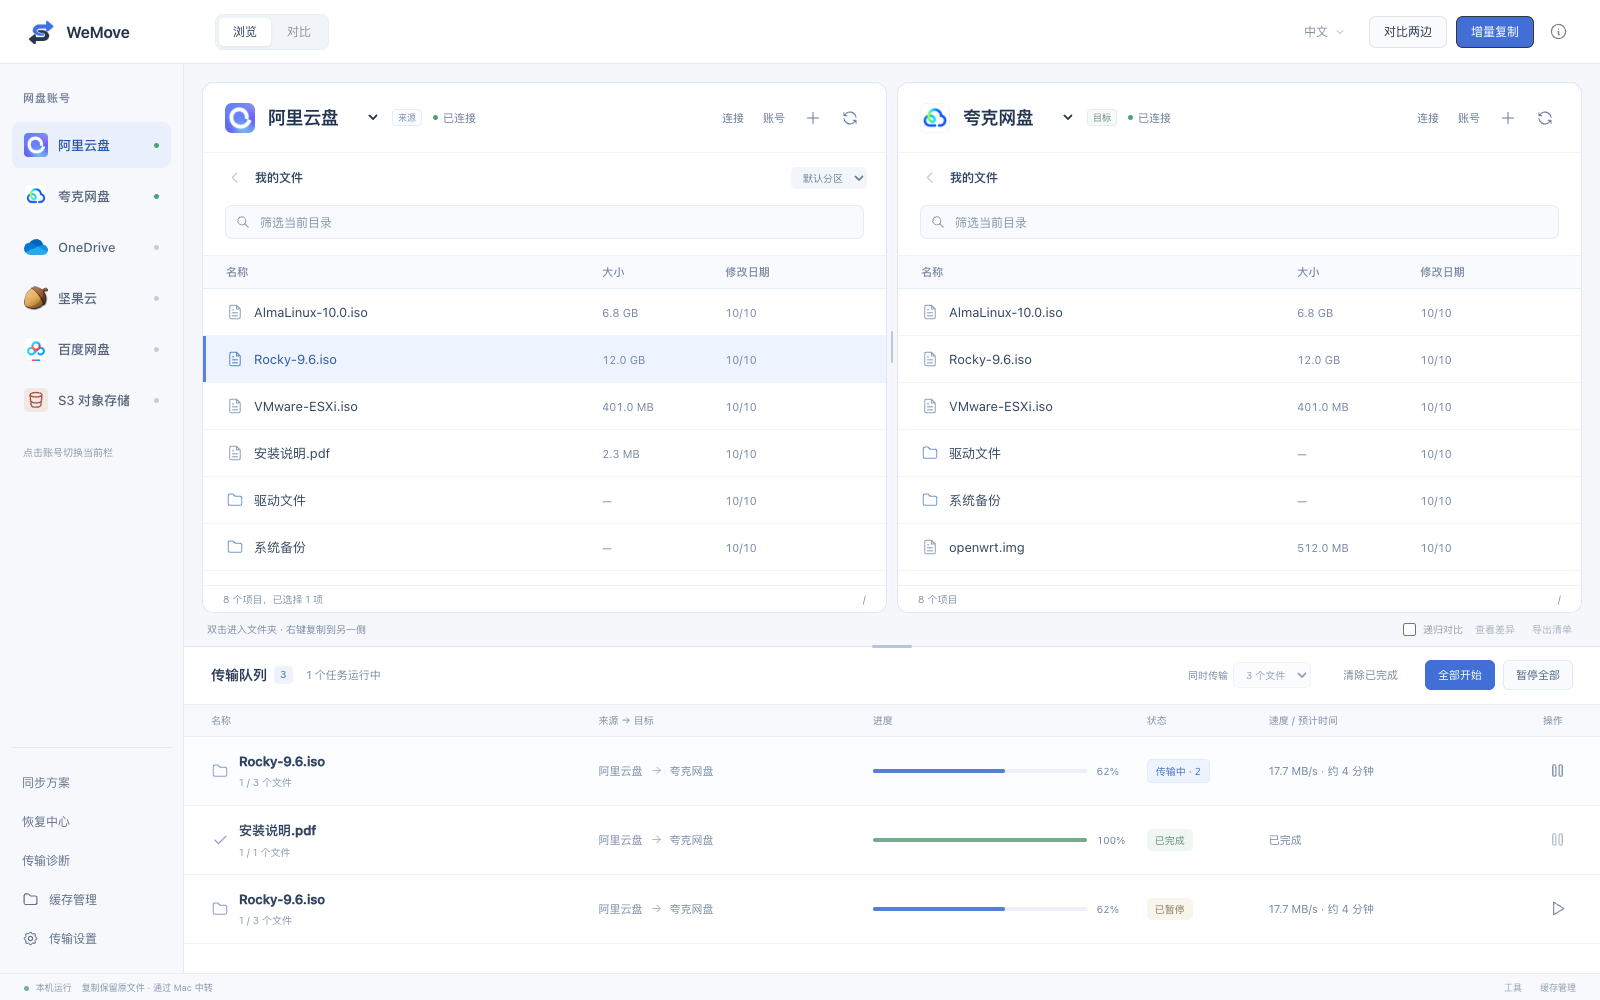
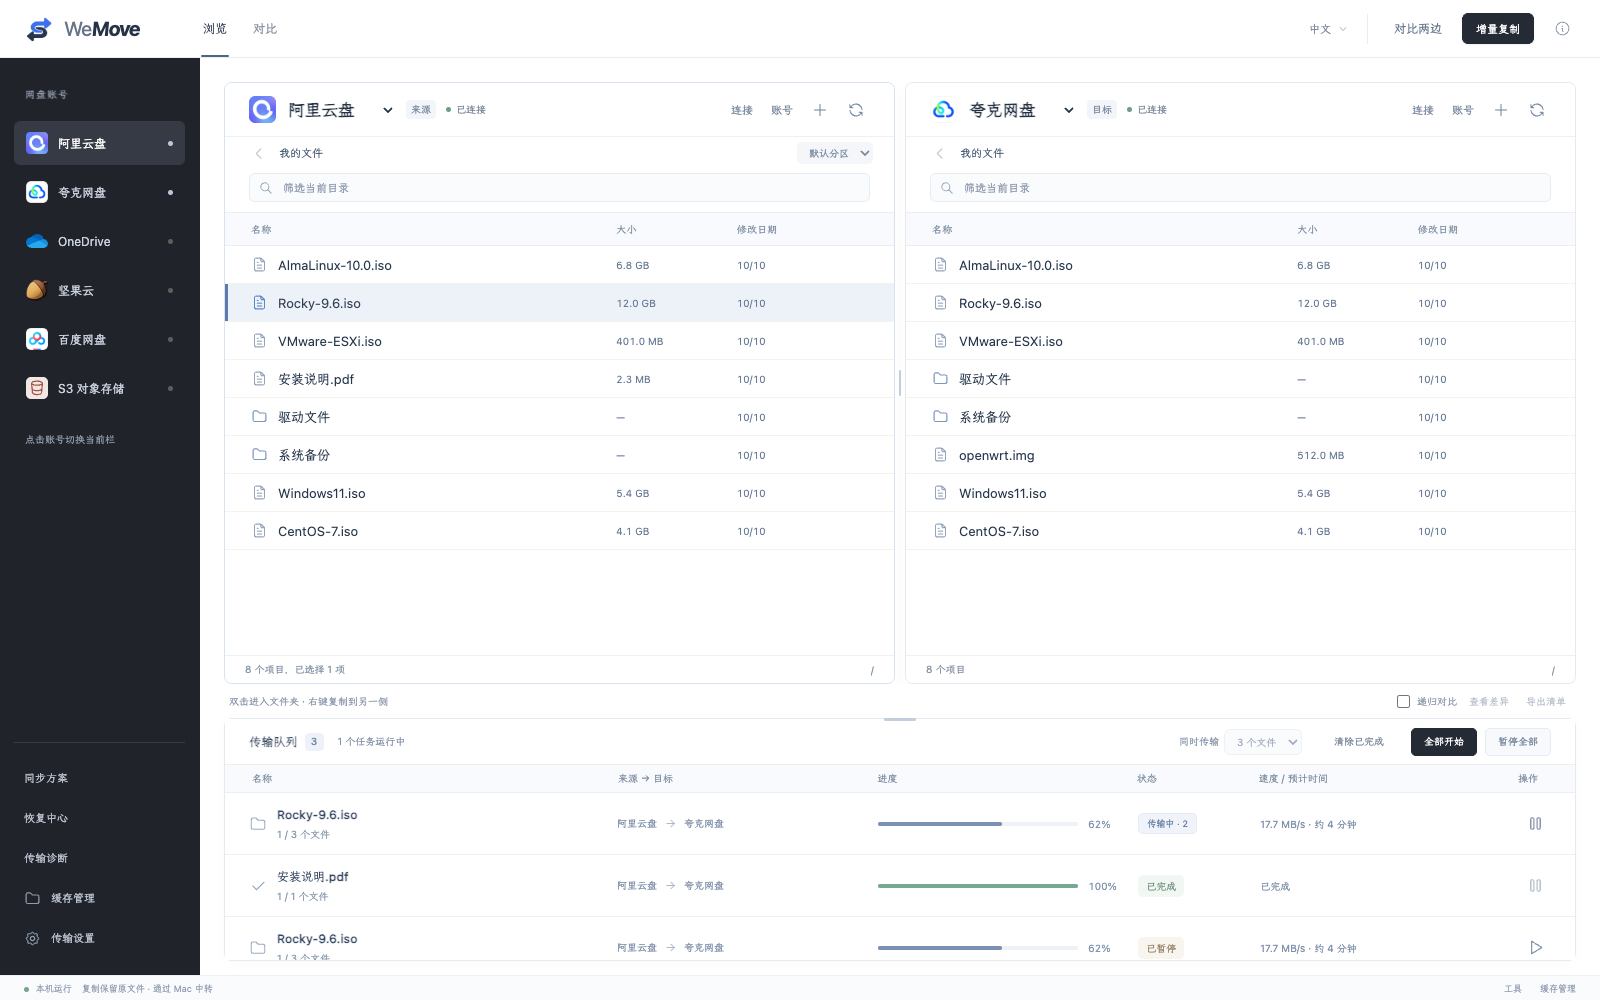
Polish UI harmony across workspace, menus and dialogs

diff --git a/styles.css b/styles.css
@@ -171,3 +171,9 @@ html[lang="zh-CN"] body,html[lang="zh-CN"] .file-table td,html[lang="zh-CN"] .fi
 /* WeMove wordmark: a quiet lead-in and a forward-moving second half. */
 .brand{display:inline-flex;align-items:baseline;font-family:-apple-system,BlinkMacSystemFont,"Helvetica Neue",sans-serif;font-size:20px;line-height:1;letter-spacing:-.8px;white-space:nowrap}.brand-we{font-weight:450;color:#687488;letter-spacing:-.7px}.brand-move{display:inline-block;font-weight:750;color:#263347;letter-spacing:-.85px;transform:skewX(-5deg);transform-origin:bottom left;padding-right:2px}.app-identity{gap:10px}.app-symbol,.app-logo{width:30px;height:30px}html[lang="zh-CN"] .brand{font-weight:inherit}
 @media(max-width:850px){.brand{font-size:17px}.app-identity{gap:7px}.app-symbol,.app-logo{width:26px;height:26px}}
+/* Final harmony pass: one neutral palette, consistent type and interaction. */
+:root{--ink:#293548;--muted:#778397;--line:#e7ebf1;--blue:#293342;--hover:#f4f6fa;--selected:#edf1f8}
+.pane-head{background:#fff;border-bottom-color:#edf0f5}.pane-role,.pane-role.target{color:#7b899d;background:#f2f5f9;font-size:10px}.pane-head .connection{color:#7a8799}.pathbar .drive-select{background:#f4f6f9;color:#7d8ba0}.crumbs button{color:#75839a}.crumbs button:last-child{color:#465975}.filterbar{background:#fafbfd;border-color:#e7ecf3}.filterbar input{color:#4e617d}.filterbar input::placeholder{color:#909caf;opacity:1}.filterbar .icon{color:#98a7bc}
+.file-table th,.queue-columns{background:#f8fafd;color:#8290a5;border-color:#ebeff5}.file-table .size,.file-table .modified{color:#7c8ca5;font-variant-numeric:tabular-nums}.pane-footer{color:#8694a9;border-color:#edf1f6;background:#fff}.comparison-strip>span,.comparison-strip label,.comparison-strip button{color:#8c99ad}.queue>header{background:#fff}.queue h2{color:#35455e}.queue h2 span{background:#eef2f8;color:#7489ac}#queue-summary{color:#8593aa}.transfer-setting{color:#8a99af}.job-route,.transfer-metrics{color:#7e8fa9}.job-count{color:#8b9ab0}.job>.state.working{background:#f0f4fa;color:#6780a5;border-color:#e5ecf6}.status-badge.complete{color:#648872!important;background:#f1f7f3}.status-badge.paused{color:#97856a!important;background:#f8f5ef}.job progress::-webkit-progress-bar{background:#eef2f7}.job progress::-webkit-progress-value{background:#7a91b4}.progress-percent{color:#8193af}.statusbar{background:#fafbfd;color:#93a0b3;border-color:#edf1f6}.statusbar .status-dot{background:#7aa38b}
+.sidebar-note{color:#929cac}.sidebar-bottom .icon{color:#8e9cb2}.sidebar-bottom button:hover{background:#303641;color:#d1d8e4}.context{border-color:#e2e7ef;border-radius:8px;box-shadow:0 12px 36px #1f2c451f;padding:6px}.context button{color:#5a6d88;border-radius:5px;padding:7px 10px;font-size:12px}.context button:hover,.context button:focus-visible{background:#f0f3f9;color:#354a6d}.context .icon{width:16px;height:16px;color:#8e9fb7}.context .menu-target{color:#96a4b8}.context .danger-text .icon{color:#b87979}
+button:focus-visible,input:focus-visible,select:focus-visible,a:focus-visible{outline-color:#9cafd0}.app-header>#help:hover,.pane-head .icon-button:hover{background:#f1f4f9;color:#617695}.auth-progress,.feature-card,.copy-manifest{color:#62728b}.feature-route,.preview-path{color:#71829c!important}.feature-status,.feature-card small{color:#8796ac}.tool-actions button:hover{background:#f0f3f8}.form-error{line-height:1.6}dialog .dialog-footer{border-color:#e9edf3}dialog p,html[lang="zh-CN"] dialog p{color:#758399}
